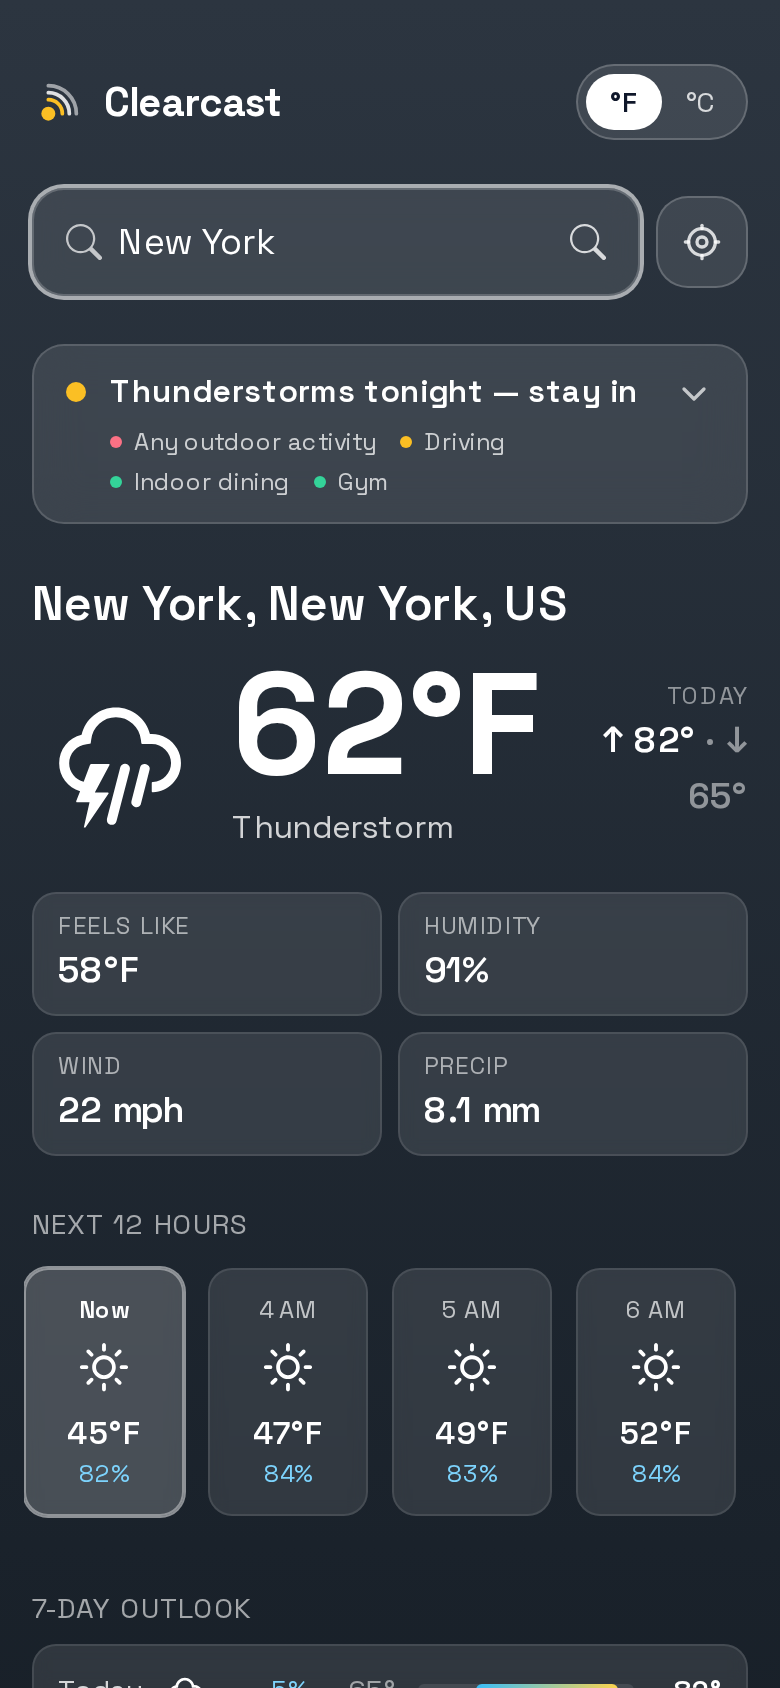
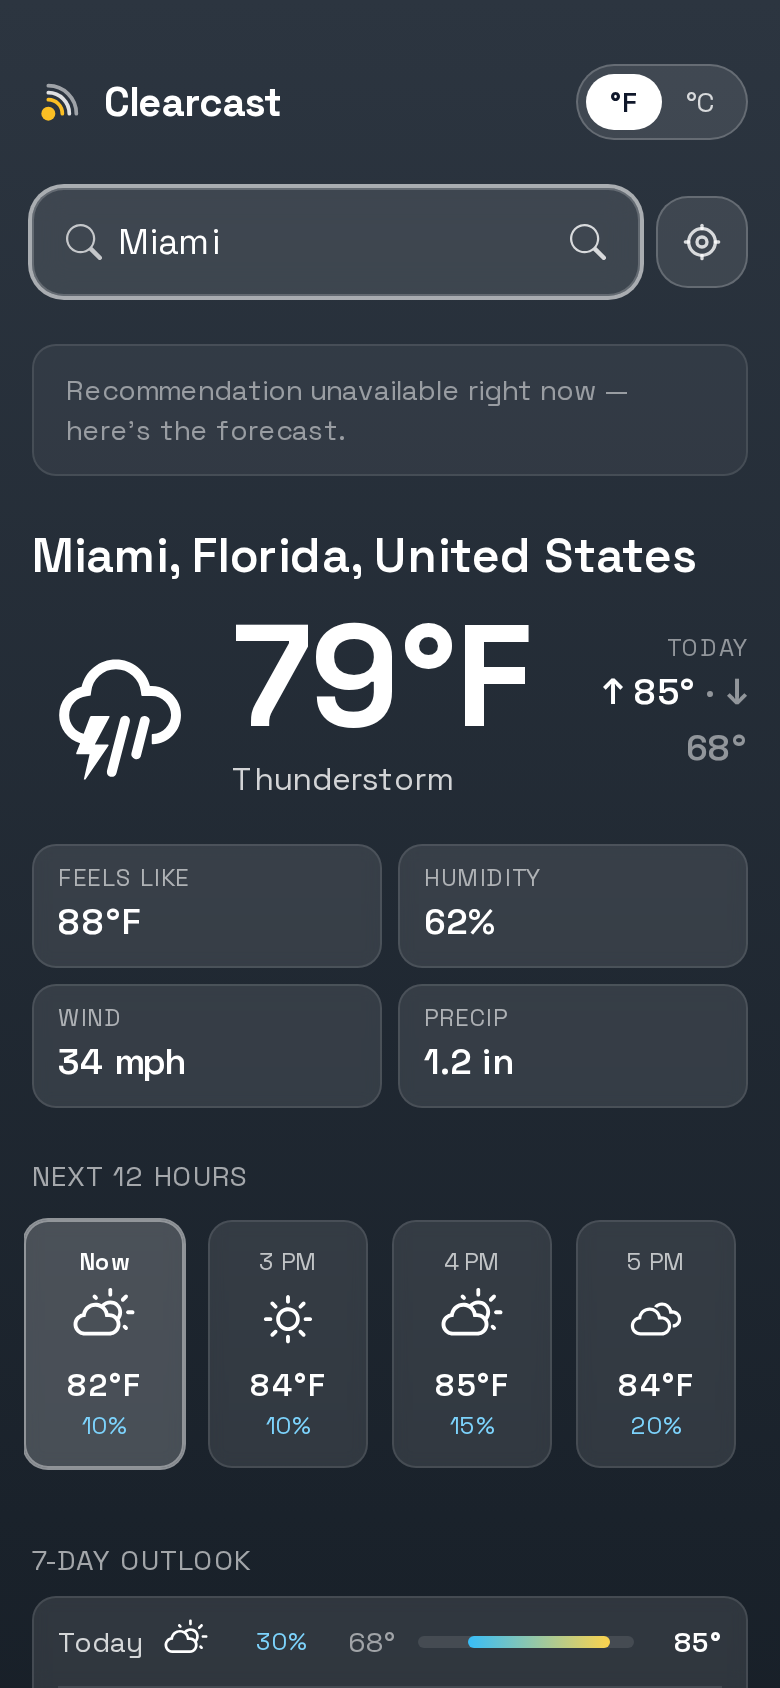
Add portfolio screenshots and work detail write-up
10 fresh retina screenshots covering all UI states (hero expanded,
current conditions, hourly strip, 7-day outlook, rain/night/storm
sky themes, metric units, idle landing) plus clearcast-portfolio.md
with recruiter-ready description, feature list, and engineering call-outs.

diff --git a/docs/clearcast-portfolio.md b/docs/clearcast-portfolio.md
@@ -1,0 +1,152 @@
+# Clearcast — Portfolio Work Detail
+
+## Project Overview
+
+**Clearcast** is a production-ready, full-stack weather PWA that turns a raw forecast into a plain-English plan for your day. It integrates Claude AI for structured activity recommendations, adapts its visual theme to live weather conditions, and works offline as an installable app. Every layer — from API design to caching strategy to unit detection — is built for correctness, not just demo appeal.
+
+**Live stack:** Next.js 13 · React 18 · TypeScript (strict) · Tailwind CSS · Claude Haiku 4.5 · Open-Meteo · Zod · Vitest · Playwright · PWA · Netlify
+
+---
+
+## Key Features
+
+### AI-Powered Daily Recommendation
+The hero card calls Claude Haiku via a server-only API route and returns structured JSON — a headline, plain-English summary, 3–4 activity verdicts (great / ok / skip with reasons), and the best time window. Zod validates the model's output at runtime so a bad response surfaces as a handled 502, not a client crash. The card is collapsed by default showing just the headline and colour-coded verdict pills; clicking expands full detail with `aria-expanded` wired for screen readers.
+
+### Adaptive Sky Backgrounds
+Eight CSS gradient themes — clear day, clear night, cloud day/night, fog, rain, snow, storm — shift automatically based on the current WMO weather code and `is_day` flag. All gradients are tuned to maintain WCAG AA contrast for white text.
+
+### Smart Unit Detection
+Defaults to °F / mph for US (including territories) and °C / km/h everywhere else, derived from the ISO 3166-1 alpha-2 country code returned by geocoding. Falls back to the browser's BCP-47 locale region subtag if no country code is available. The user's manual toggle is persisted to localStorage with a separate "manual" flag so auto-detection doesn't clobber an explicit choice on the next search.
+
+### Current Conditions
+Large temperature, apparent temperature, humidity, wind speed, precipitation, today's high/low, and a WMO-mapped weather icon (day/night aware). Location displayed as a breadcrumb (city, region, country) with `break-words` to handle long names cleanly.
+
+### Hourly Strip
+12-hour horizontal snap-scroll showing time, icon, temperature, and precipitation probability. The current hour is labelled "Now". Custom scrollbar styling matches the glass card design.
+
+### 7-Day Outlook
+Each of the 7 rows shows weekday label, icon, precip probability, and a temperature range bar. Bars are normalized across the week's absolute min/max — so the visual widths represent real relative magnitude, not arbitrary percentages.
+
+### Progressive Web App
+Installable on iOS and Android. Service worker precaches the app shell and serves the last-seen forecast when offline (NetworkFirst strategy). Safe-area padding respects notches and home indicators. Icons generated from a single SVG source via Sharp (192px, 512px, maskable, Apple touch).
+
+---
+
+## Engineering Highlights
+
+| Area | Decision |
+|------|----------|
+| **LRU Cache** | 500-entry in-memory cache using JS Map's insertion-order guarantee. Evicts oldest entry on overflow; promotes on hit via delete-then-reinsert. O(1) both ways. |
+| **Prompt trimming** | `buildPromptPayload()` sends only current conditions + next 12 hours to Claude, cutting payload from ~20 KB to ~2 KB and reducing latency + cost. |
+| **Daily call cap** | Module-level counter resets at UTC midnight; returns 429 when exceeded. Configurable via `MAX_AI_CALLS_PER_DAY` env var. |
+| **Geocoding fallback chain** | Browser geolocation → BigDataCloud reverse geocode → bare coordinates. Each step degrades gracefully; no hard failures. |
+| **Silent geo on mount** | `useEffect` attempts geolocation silently. If denied, sets `status: "idle"` — no error banner. The explicit location button still shows the error on denial. |
+| **Zod as single source of truth** | One schema in `lib/recommendationSchema.ts` drives both server-side Claude output parsing and client-side TypeScript types via `z.infer<>`. |
+| **Week-normalized range bars** | Daily high/low bars scale to the week's absolute min/max so their widths carry real information. A 4% floor prevents bars from disappearing. |
+| **TypeScript strict mode** | `strict: true` across the entire codebase. All component props, API responses, and domain types are explicitly typed. |
+
+---
+
+## Tech Stack
+
+| Layer | Technology |
+|-------|-----------|
+| Framework | Next.js 13 (Pages Router) |
+| Language | TypeScript 5.4 (strict) |
+| UI | React 18, Tailwind CSS 3.4 |
+| AI | Anthropic Claude Haiku 4.5 via `@anthropic-ai/sdk` |
+| Schema validation | Zod 4.4 |
+| Weather API | Open-Meteo (no key required) |
+| Reverse geocoding | BigDataCloud (no key required) |
+| HTTP client | Axios |
+| PWA | @ducanh2912/next-pwa + Sharp |
+| Unit tests | Vitest 2 + React Testing Library 14 |
+| E2E / smoke tests | Playwright 1.56 |
+| CI/CD | GitHub Actions → Netlify |
+
+---
+
+## Test Coverage
+
+38 unit tests across 10 files covering data parsing, business logic, and UI behaviour:
+
+- **API parsing** — geocoding and forecast response shape transformations
+- **Unit detection** — Fahrenheit countries (US + territories), metric fallback, locale BCP-47 parsing
+- **Prompt trimming** — hourly slicing, weather code translation, cache key stability within an hour
+- **Sky theme** — WMO code → gradient mapping, day/night branching, unknown code default
+- **Format utils** — `round()`, `percentInRange()`, `upcomingHours()` edge cases
+- **Schema validation** — valid Claude output, null `bestWindow`, enum enforcement, missing field errors
+- **Components** — `CurrentConditions` renders, `RecommendationHero` expand/collapse interaction
+
+---
+
+## Screenshots
+
+### Full App — Hero Expanded
+AI recommendation visible with activity verdicts and best-time callout. Clear-day sky gradient.
+
+![Hero expanded](shot-hero-expanded.png)
+
+---
+
+### Full-Page Overview
+All sections rendered in one scroll: hero, current conditions, hourly strip, 7-day outlook.
+
+![Full page](shot-full-page.png)
+
+---
+
+### Current Conditions
+Location breadcrumb, large temperature, condition icon, and 4-stat grid (humidity, wind, precipitation, feels-like).
+
+![Current conditions](shot-current.png)
+
+---
+
+### Hourly Strip
+12-hour horizontal scroll. "Now" card highlighted, icons adapt to each hour's weather code.
+
+![Hourly strip](shot-hourly.png)
+
+---
+
+### 7-Day Outlook
+Normalized range bars show relative temperature spread across the week at a glance.
+
+![7-day outlook](shot-daily.png)
+
+---
+
+### Rain Sky Theme
+Moody blue-grey gradient activates for rain weather codes; the background is always in sync with live conditions.
+
+![Rain sky](shot-rain-sky.png)
+
+---
+
+### Night Sky Theme
+Deep navy gradient for clear-night conditions.
+
+![Night sky](shot-night-sky.png)
+
+---
+
+### Storm Sky Theme
+Dark gradient for thunderstorm codes; Miami example.
+
+![Storm sky](shot-storm.png)
+
+---
+
+### Metric Units (°C / km/h)
+Unit toggle in header; preference saved to localStorage and survives page reloads.
+
+![Metric units](shot-metric.png)
+
+---
+
+### Idle / Landing State
+Clean prompt before any location is selected — no cluttered default data.
+
+![Idle state](shot-idle.png)